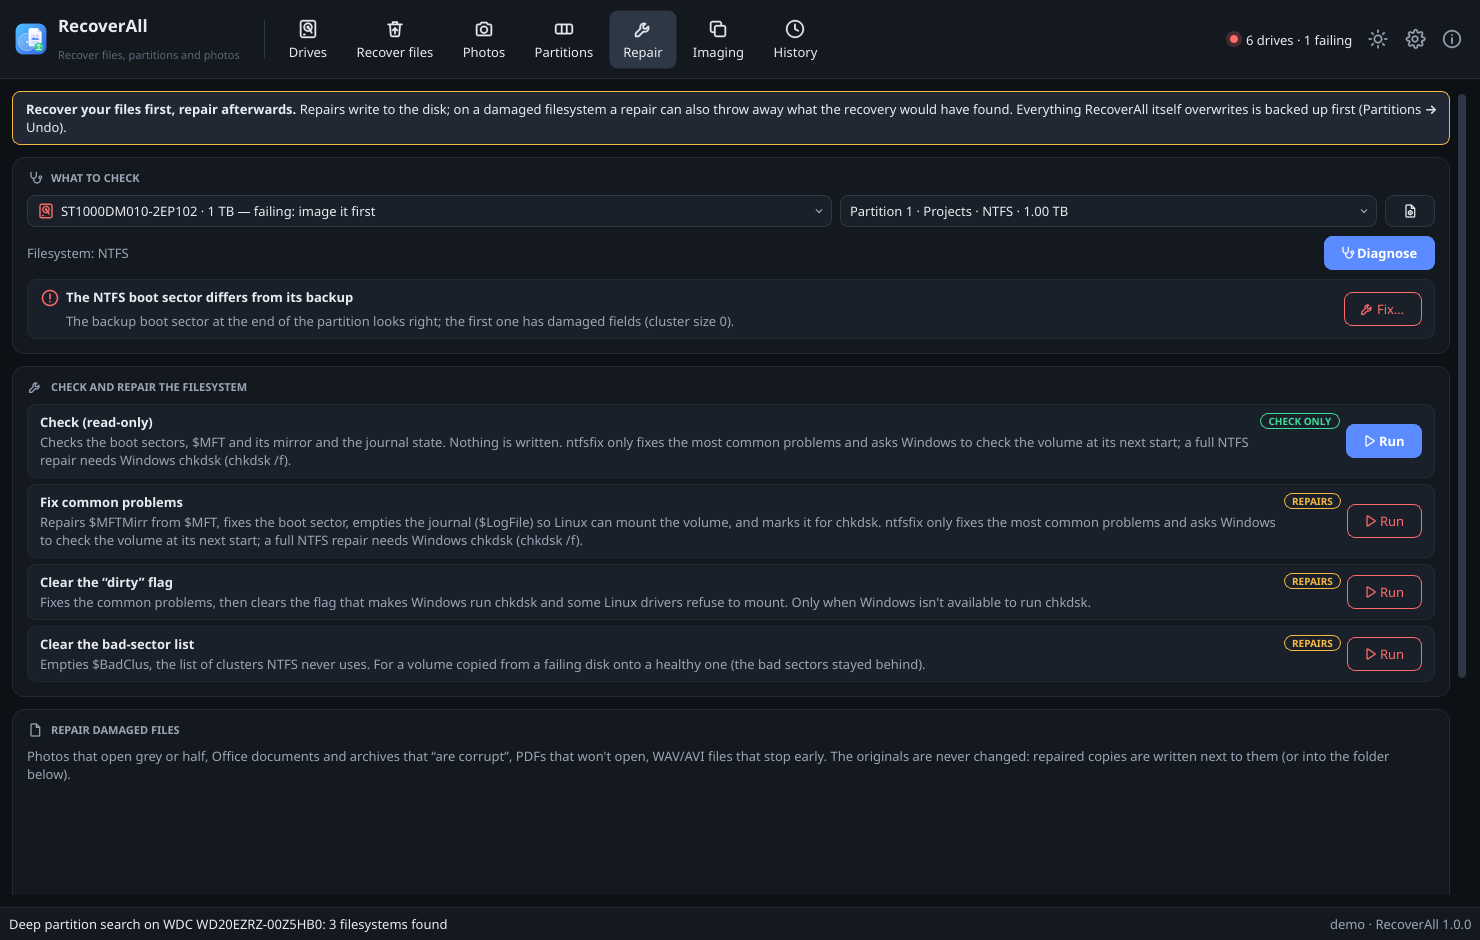
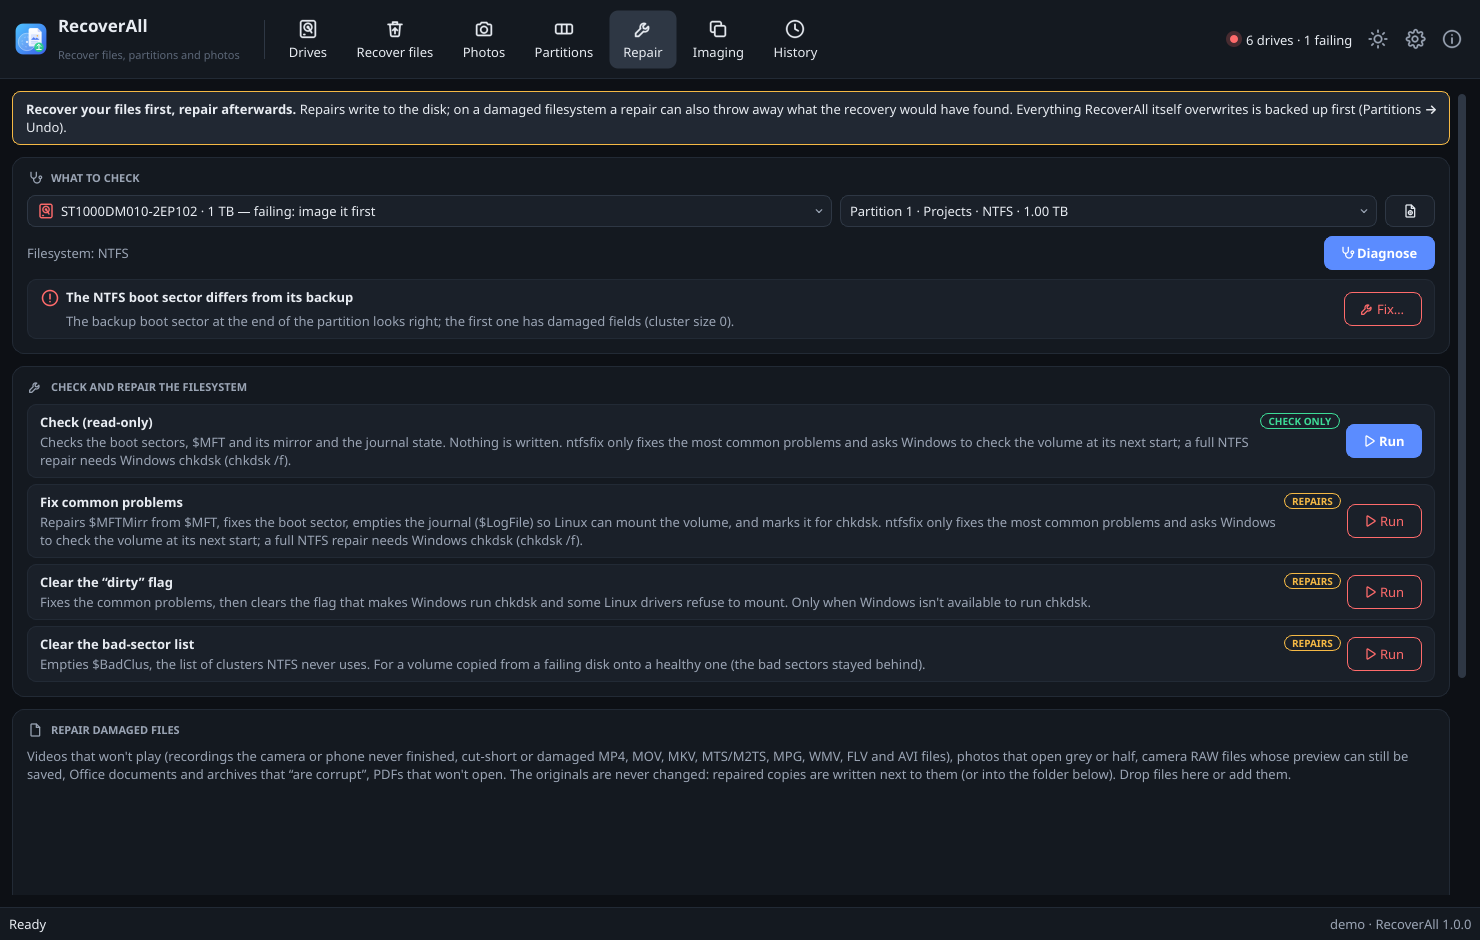
Repair page: clearer list of what file repair handles; new screenshots
Claude-Session: https://claude.ai/code/session_01JKNLKdfZoinRTsH6svNEz6

Changed region(s): [[0.0, 0.8021, 0.9324, 0.833], [0.0, 0.9564, 0.2797, 0.9872]]

diff --git a/recoverall/gui/repair_page.py b/recoverall/gui/repair_page.py
@@ -86,8 +86,8 @@ class RepairPage(OperationPage):
         lay.addWidget(c2)
 
         c3 = Card("Repair damaged files", "file")
-        c3.add(hint("Videos that won't play — recordings the camera or phone never finished (MP4, MOV), cut-short "
-                    "or damaged MKV, MTS/M2TS, MPG, WMV, FLV and AVI files —, photos that open grey or half, camera "
+        c3.add(hint("Videos that won't play (recordings the camera or phone never finished, cut-short or damaged "
+                    "MP4, MOV, MKV, MTS/M2TS, MPG, WMV, FLV and AVI files), photos that open grey or half, camera "
                     "RAW files whose preview can still be saved, Office documents and archives that “are corrupt”, "
                     "PDFs that won't open. The originals are never changed: repaired copies are written next to "
                     "them (or into the folder below). Drop files here or add them.", faint=False))
